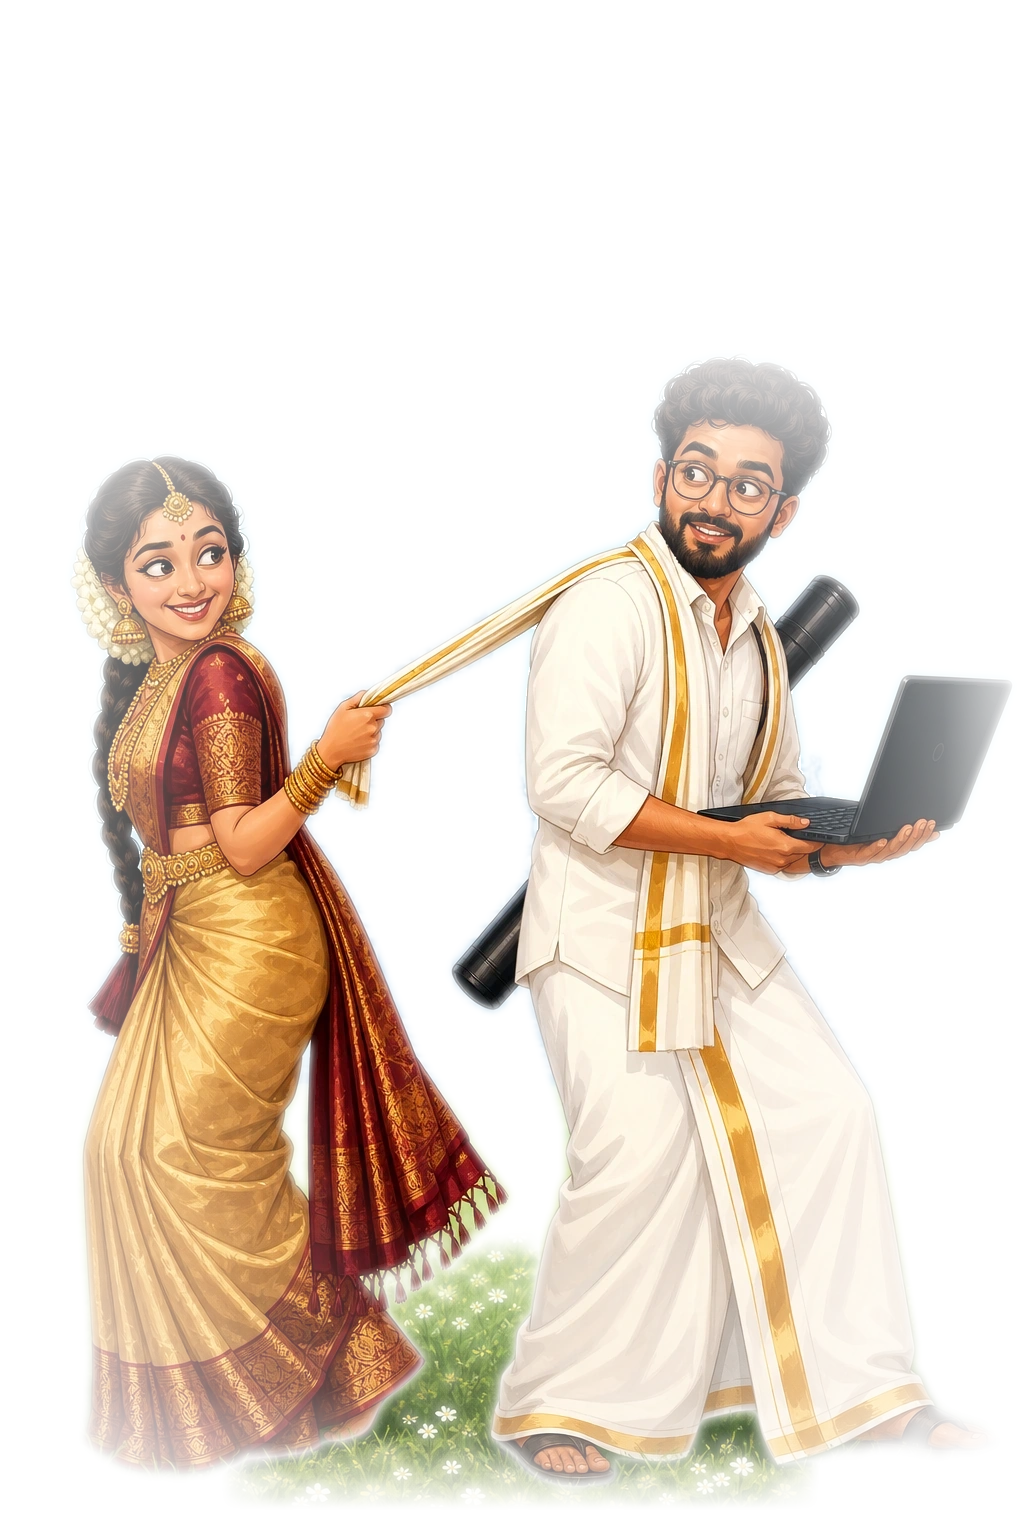
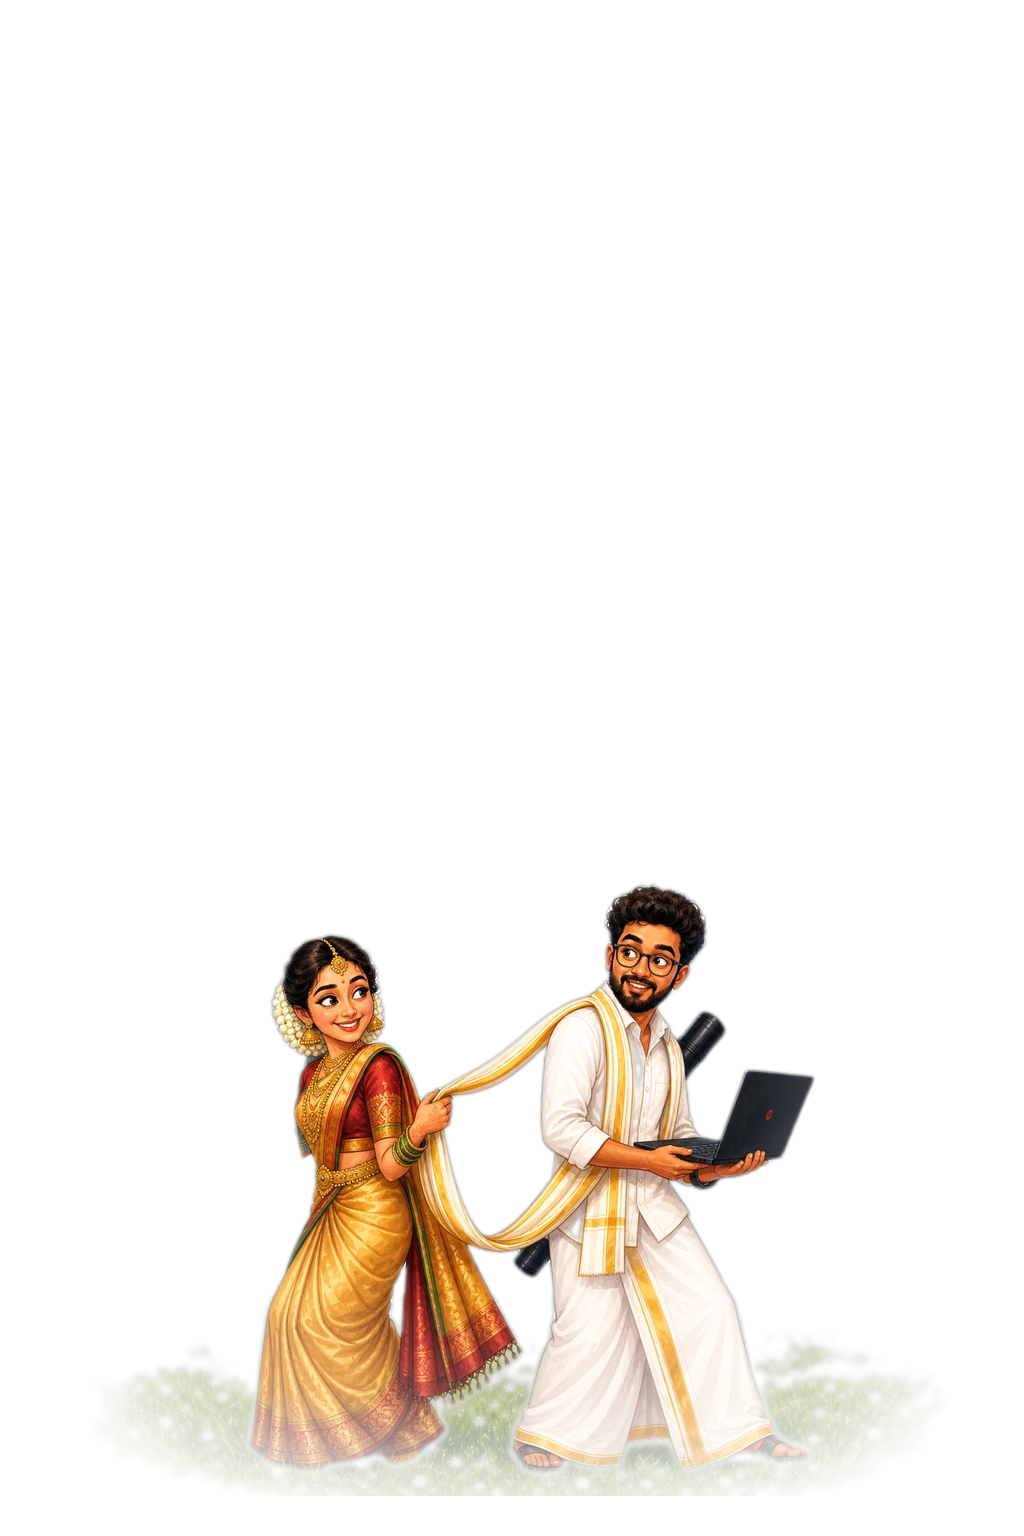
Match invitation-reference caricature style in the garden hero
Recreate the attached South Indian invitation couple aesthetic (gold
saree, jasmine bun, laptop and drafting tube) as a soft-edged hero
asset and blend it into the VenueCanvas meadow without a hard plate.

diff --git a/src/data/wedding.ts b/src/data/wedding.ts
@@ -32,7 +32,10 @@ export const weddingData = {
 
   hero: {
     ganeshaBlessing: "|| Shree Ganesha Namah ||",
-    /** Soft-edged South Indian invitation caricature (blends into VenueCanvas) */
+    /**
+     * Soft-edged invitation-style caricature (gold saree, jasmine bun, laptop/tube)
+     * blended into VenueCanvas marigold + banana garden.
+     */
     image: "/images/couple/caricature-hero-feathered.webp",
     imageAlt:
       "Illustrated caricature of Abhigna and Hemanth in traditional South Indian wedding attire",
